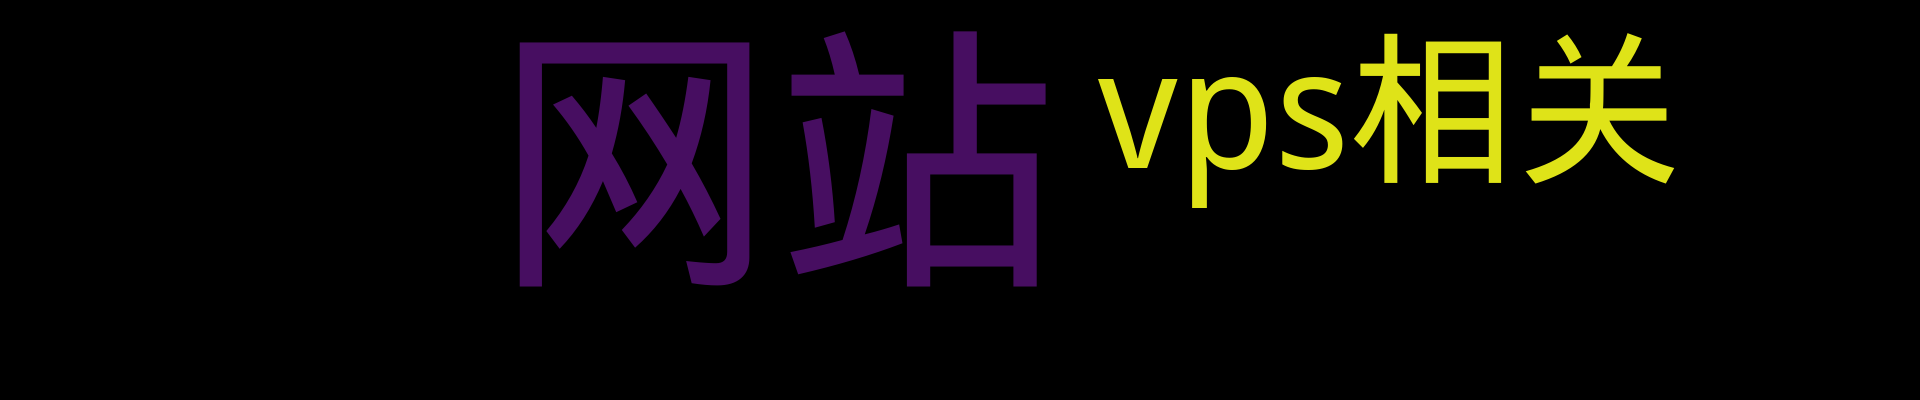
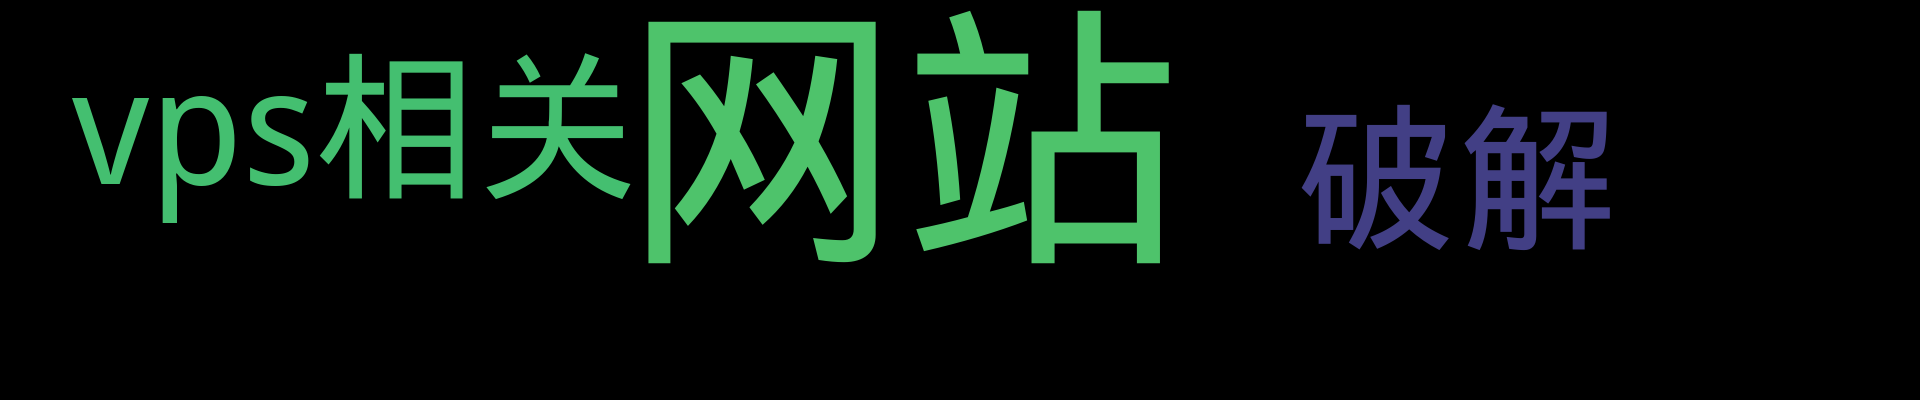
Update from Github Action

Changed region(s): [[0.0312, 0.03, 0.875, 0.72]]

diff --git a/README.md b/README.md
@@ -1,7 +1,7 @@
 
 <p align='center'>
     <img src="https://badgen.net/github/issues/moxiaobei1993//blog"/>
-    <img src="https://badgen.net/badge/last-commit/2022-12-26 12:39:33"/>
+    <img src="https://badgen.net/badge/last-commit/2022-12-26 12:40:05"/>
     <img src="https://badgen.net/github/forks/moxiaobei1993//blog"/>
     <img src="https://badgen.net/github/stars/moxiaobei1993//blog"/>
     <img src="https://badgen.net/github/watchers/moxiaobei1993//blog"/>
@@ -20,8 +20,17 @@
 </details>
             
 <details open>
-<summary>网站	[6篇]</summary>
+<summary>破解	[1篇]</summary>
 
+- 2022-12-26 [ 一劳永逸破解 Typora 全系列](https://github.com/moxiaobei1993/blog/issues/8) 
+
+
+</details>
+            
+<details open>
+<summary>网站	[7篇]</summary>
+
+- 2022-12-26 [ 一劳永逸破解 Typora 全系列](https://github.com/moxiaobei1993/blog/issues/8) 
 - 2022-12-26 [后续博客更新的一点想法](https://github.com/moxiaobei1993/blog/issues/6) 
 - 2022-12-26 [找到问题原因了](https://github.com/moxiaobei1993/blog/issues/5) 
 - 2022-12-26 [是否是删除了src文件夹](https://github.com/moxiaobei1993/blog/issues/4) 
